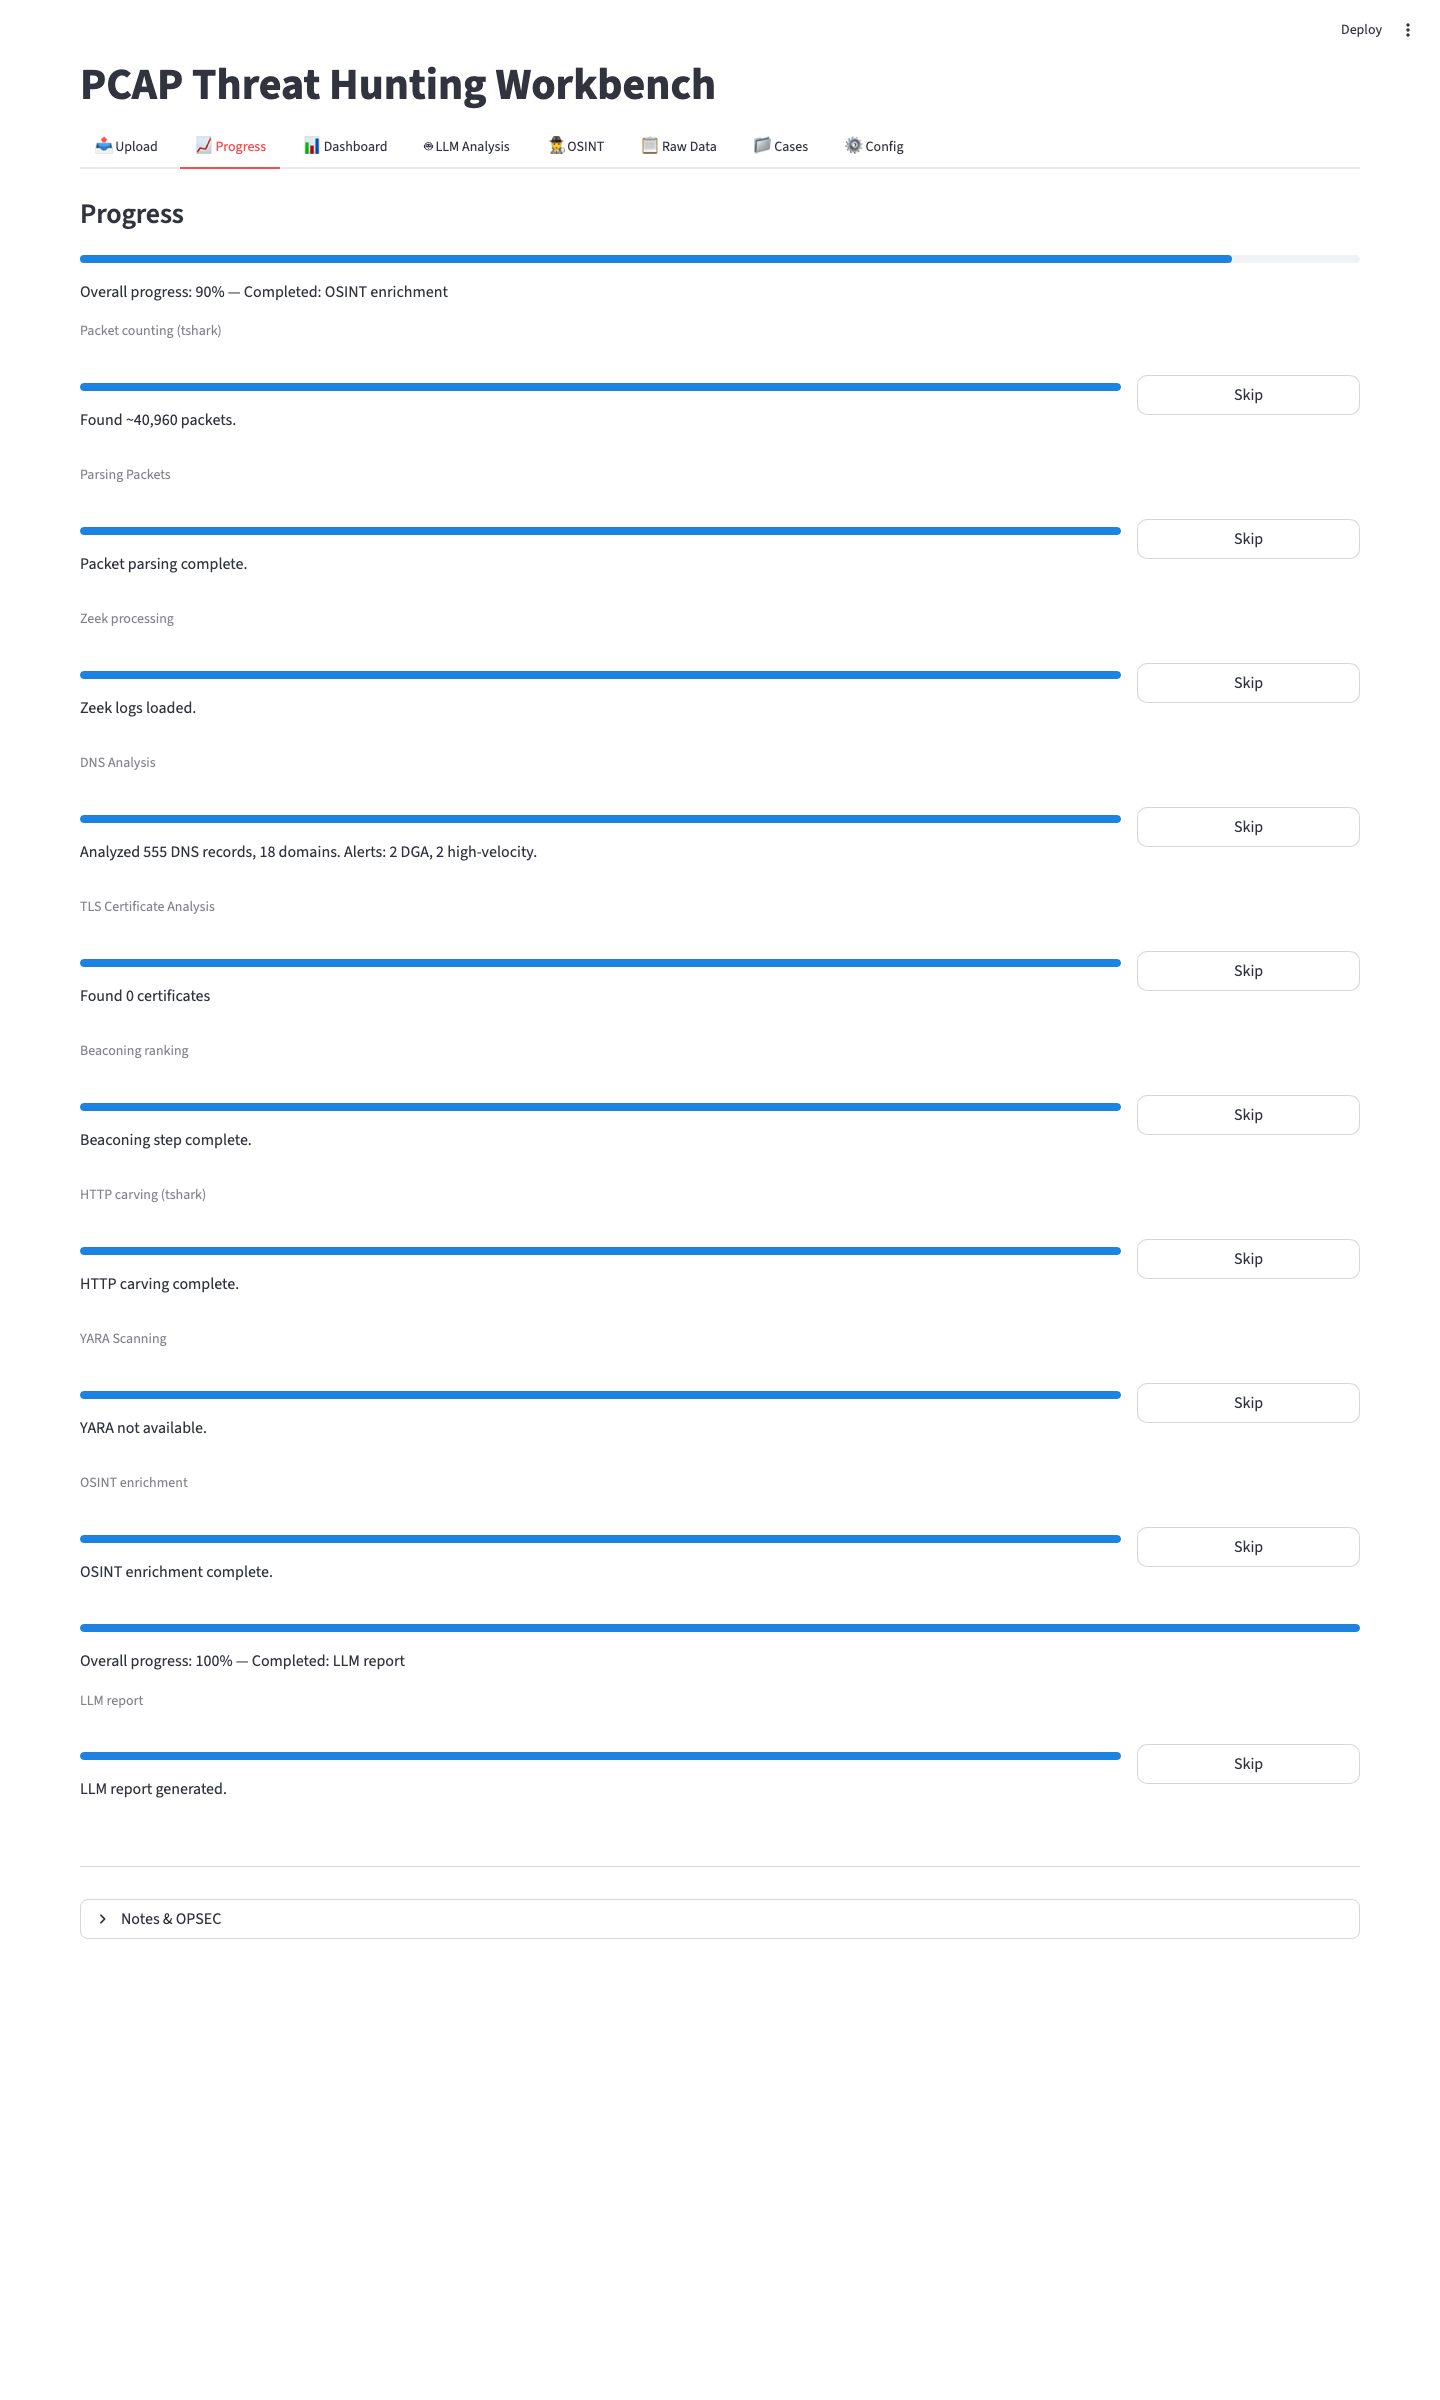
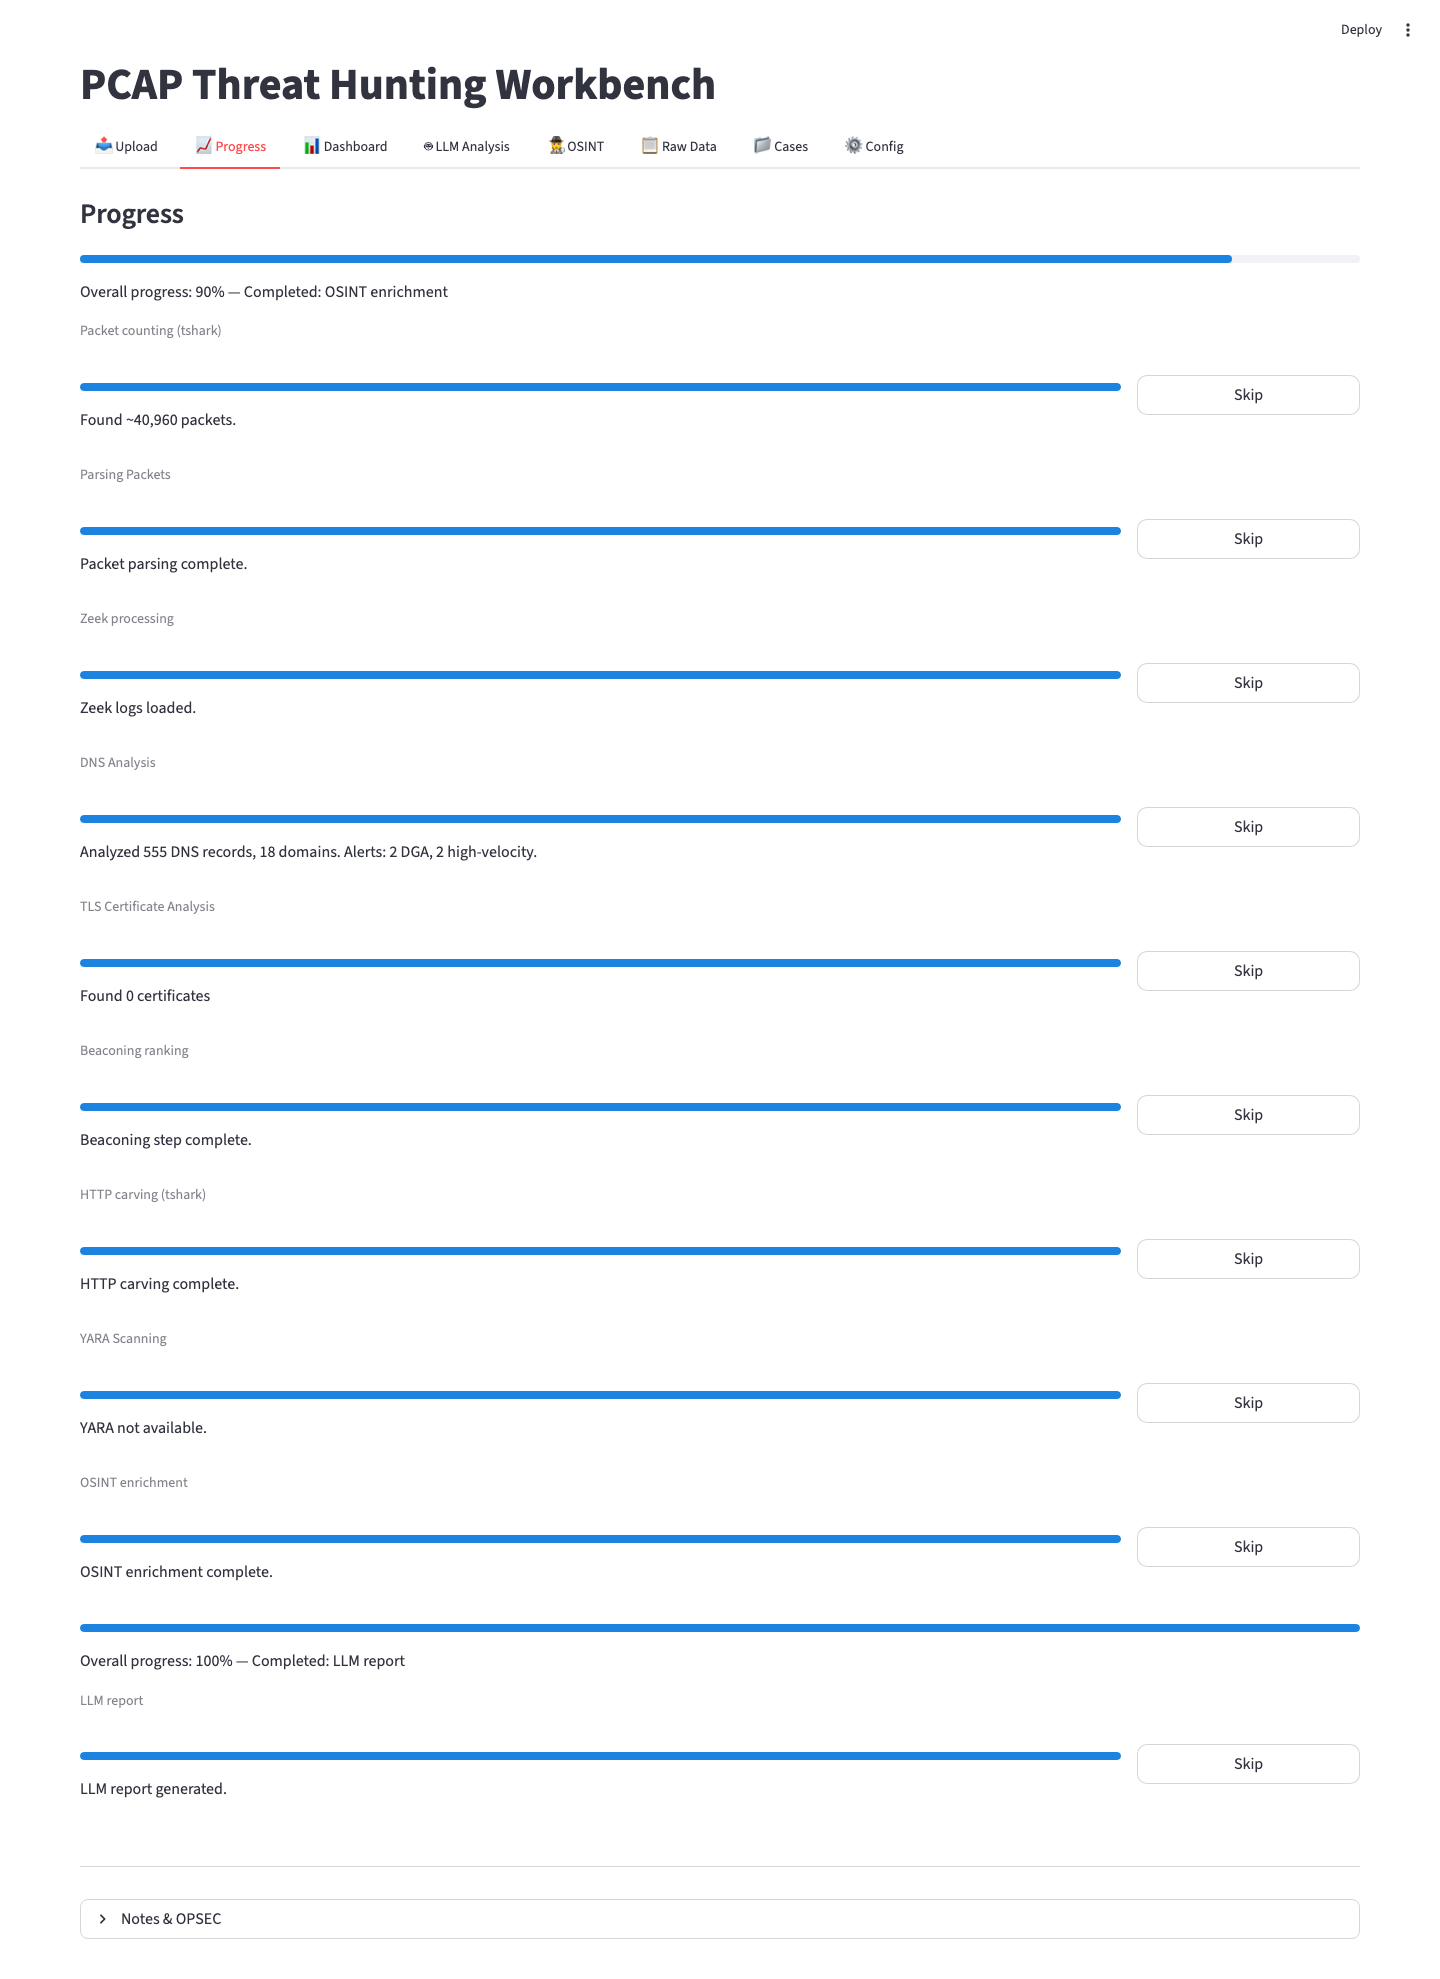
docs: crop trailing whitespace from upload/progress/cases screenshots
Streamlit's full_page screenshot captured a tall blank gap (and on Upload
and Cases, a duplicate header re-render) below the actual page end,
making the README screenshots look like there was no further content.

Crop the three affected images and add a `crop_trailing_blank` step to
`scripts/capture_screenshots.py` so future captures stay tight to the
real content automatically.

diff --git a/scripts/capture_screenshots.py b/scripts/capture_screenshots.py
@@ -26,6 +26,7 @@ import sys
 import time
 from pathlib import Path
 
+import numpy as np
 from PIL import Image, ImageDraw
 from playwright.sync_api import Page, sync_playwright
 
@@ -376,6 +377,46 @@ def redact_png(
     return total
 
 
+def crop_trailing_blank(
+    png_path: Path,
+    min_blank_run: int = 300,
+    blank_pixel_threshold: int = 240,
+    padding: int = 40,
+) -> None:
+    """Trim trailing whitespace and any post-content duplicate render.
+
+    Streamlit's full_page screenshot can include both trailing blank space
+    and a duplicate header re-render below the actual page end. We scan
+    rows top-to-bottom and crop at the first run of >=min_blank_run blank
+    rows after content begins — that point is always the true page end.
+    """
+    img = Image.open(png_path)
+    arr = np.array(img.convert("L"))
+    h = arr.shape[0]
+    non_white_frac = (arr < blank_pixel_threshold).mean(axis=1)
+    is_blank = non_white_frac < 0.005
+    if not (~is_blank).any():
+        return
+    first_content = int(np.argmax(~is_blank))
+    crop_at = h
+    run_start = None
+    for i in range(first_content, h):
+        if is_blank[i]:
+            if run_start is None:
+                run_start = i
+            elif i - run_start + 1 >= min_blank_run:
+                crop_at = run_start
+                break
+        else:
+            run_start = None
+    if crop_at >= h:
+        return
+    new_h = min(h, crop_at + padding)
+    cropped = img.crop((0, 0, img.width, new_h))
+    cropped.save(png_path, optimize=True)
+    print(f"  ✂  cropped {png_path.name}: {h} → {new_h}px (saved {h - new_h}px)")
+
+
 def capture_and_redact(
     page: Page,
     filename: str,
@@ -389,6 +430,7 @@ def capture_and_redact(
     if redact:
         n = redact_png(path, boxes, dpr=dpr, run_ocr_fallback=True)
         print(f"  ✂  redacted {n} IP region(s) in {filename}")
+    crop_trailing_blank(path)
 
 
 # ---------------------------------------------------------------------------
@@ -423,6 +465,7 @@ def main() -> int:
         for png in sorted(OUT_DIR.glob("*.png")):
             n = redact_png(png, [], dpr=1.0, run_ocr_fallback=True)
             print(f"  ✂  redacted {n} IP region(s) in {png.name}")
+            crop_trailing_blank(png)
         return 0
 
     if not SAMPLE_PCAP.is_file() and not args.skip_analysis:

diff --git a/README.md b/README.md
@@ -412,7 +412,7 @@ python3 scripts/capture_screenshots.py --redact-only   # re-run OCR redaction on
 python3 scripts/capture_screenshots.py --keep-ips      # keep IPs (internal use only)
 ```
 
-The capture script uses Playwright headless Chromium, drives the UI, and runs a two-pass IP redaction: DOM-aware bounding-box extraction first, then multi-PSM tesseract OCR for any IPs rendered into canvas (Streamlit's `st.dataframe`).
+The capture script uses Playwright headless Chromium, drives the UI, and runs a two-pass IP redaction: DOM-aware bounding-box extraction first, then multi-PSM tesseract OCR for any IPs rendered into canvas (Streamlit's `st.dataframe`). After redaction it auto-crops trailing whitespace and any post-content duplicate render so README screenshots stay tight to actual content.
 
 ### Testing discipline
 
